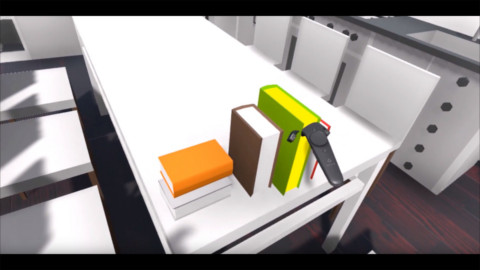
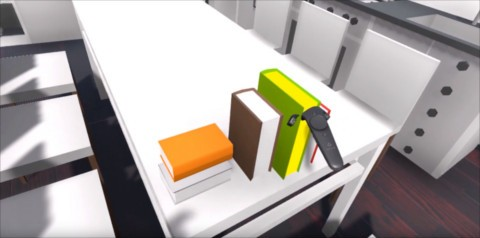
Minor content update
- welcome page update
- remove unused files
- add robots.txt
- add trademarks mention

diff --git a/index.html b/index.html
@@ -27,12 +27,9 @@
 				<section id="banner">
 					<header>
 						<h2>Thomas Caroff</h2>
-						<p>C++ Programmer & Game Dev</p>
-						<p>Welcome to my portfolio!</p>
-						<br>
-						<p>Looking for my next adventure in a great team! :)</p>
-						<br>
-						<!--<p><a class="construction">&emsp;Update sept. 2020: I'm currently reworking my portfolio, everything is not up to date&emsp;</a></p>-->
+						<p>C++ Senior Gameplay AI Programmer</p><br>
+						<p>Welcome to my site. Here I present my past work and<br>
+							projects, and try to draw out a few reflections about it.</p>
 					</header>
 				</section>
 			</div>
@@ -48,41 +45,49 @@
 					<div class="12u">
 						<section>
 							<header class="major">
-								<h2>Work projects</h2>
+								<h2>Announced work projects</h2>
 							</header>
-								<div class="row">
+							<div class="row">
 
 								<div class="4u 12u(mobile)">
 									<section class="box">
-										<a class="image featured"><img src="images/pic02_thumbnail.jpg" alt="" /></a>
+										<a class="image featured"><img src="images/ES_header.jpg" alt="" /></a>
 										<header>
-											<h3>Undisclosed AAA game</h3>
+											<h3>Eternal Strands</h3>
 										</header>
-										<h4 class="my-description">Porting the game on all 8th and 9th gen consoles.</h4>
+										<h4 class="my-description">Shipping a game where you fight against giant creatures with your magic.</h4>
 										<p>
-											<i class="fas fa-code"></i> C++, proprietary engine<br>
-											<i class="fas fa-clock"></i> 1.5 years, 2021-2022<br>
+											<i class="fas fa-code"></i> C++, UE5<br>
+											<i class="fas fa-clock"></i> Shipped 2025<br>
 										</p>
-										<footer>
-											<a class="construction">&emsp;Under construction&emsp;</a>
-										</footer>
 									</section>
 								</div>
 
 								<div class="4u 12u(mobile)">
 									<section class="box">
-										<a class="image featured"><img src="images/pic01_thumbnail.jpg" alt="" /></a>
+										<a class="image featured"><img src="images/CIV_header.jpg" alt="" /></a>
 										<header>
-											<h3>Marvel’s Guardians of the Galaxy - Eidos Montréal</h3>
+											<h3>Civilization VII</h3>
 										</header>
-										<h4 class="my-description">Part of the gameplay team on the biggest title of Eidos to date.</h4>
+										<h4 class="my-description">Porting the game on all 8th and 9th gen consoles.</h4>
+										<p>
+											<i class="fas fa-code"></i> C++, proprietary engine<br>
+											<i class="fas fa-clock"></i> Shipped 2025<br>
+										</p>
+									</section>
+								</div>
+
+								<div class="4u 12u(mobile)">
+									<section class="box">
+										<a class="image featured"><img src="images/MGOG_header.jpg" alt="" /></a>
+										<header>
+											<h3>Marvel’s Guardians of the Galaxy</h3>
+										</header>
+										<h4 class="my-description">Part of the gameplay team on Eidos Montréal's biggest title to date.</h4>
 										<p>
 											<i class="fas fa-code"></i> C++, proprietary data-oriented engine<br>
-											<i class="fas fa-clock"></i> 2 years, 2019-2020<br>
+											<i class="fas fa-clock"></i> Shipped 2021<br>
 										</p>
-										<footer>
-											<a class="construction">&emsp;Under construction&emsp;</a>
-										</footer>
 									</section>
 								</div>
 
@@ -95,8 +100,8 @@
 										<h4 class="my-description">A VR toolset for professional interior designers and architects.</h4>
 										<p>
 											<i class="fas fa-code"></i> <strong>Unity</strong>, C#, HTC Vive, NVIDIA Ansel<br>
-											<i class="fas fa-users"></i> Made alone, total autonomy<br>
-											<i class="fas fa-clock"></i> <strong>12 full-time weeks</strong>, Summer 2017<br> I worked on: all aspects
+											<i class="fas fa-users"></i> Made alone<br>
+											<i class="fas fa-clock"></i> <strong>12 full-time weeks</strong>, Summer 2017
 										</p>
 										<footer>
 											<a href="hvrt.html" class="button alt">Find out more</a>
@@ -139,11 +144,11 @@
 
 								<div class="4u 12u(mobile)">
 									<section class="box">
-										<a href="ugfs.html" class="image featured"><img src="images/ugfs.gif" alt="" /></a>
+										<a class="image featured"><img src="images/ugfs.gif" alt="" /></a>
 										<header>
 											<h3>UE4 gravitation fields system</h3>
 										</header>
-										<h4 class="my-description">Apply gravitation fields to objects and pawns in volumes or upon contacts with objects to walk on walls.</h4>
+										<h4 class="my-description">Apply gravitation fields to objects and pawns in volumes, or upon contacts with objects. Enable any kind of to walk on walls.</h4>
 										<p>
 											<i class="fas fa-code"></i> <strong>UE4</strong>, C++<br>
 											<i class="fas fa-user"></i> Made alone<br>
@@ -161,9 +166,9 @@
 										<header>
 											<h3>Mods and other prototypes</h3>
 										</header>
-										<h4 class="my-description">I'm dusting my old projects! There are some mods on games like Minecraft or Skyrim and some prototypes made on different engines. See more soon.</h4>
+										<h4 class="my-description">I'm dusting my old projects! There are some mods on games like Minecraft or Skyrim, and some prototypes made on different techs. Recently I have been looking at modding Helldivers. See more soon.</h4>
 										<p>
-											<i class="fas fa-code"></i> <strong>UDK / UE4</strong>, C++, Java<br>
+											<i class="fas fa-code"></i> <strong>UDK / UE4 / UE5</strong>, C++, Java<br>
 											<i class="fas fa-user"></i> Made alone<br>
 											<i class="fas fa-clock"></i> Ongoing since 2009<br>
 										</p>
@@ -233,9 +238,9 @@
 									<section class="box">
 										<a class="image featured"><img src="images/pic06_thumbnail.jpg" alt="" /></a>
 										<header>
-											<h3>[Game Jam] Next jams to come</h3>
+											<h3>Old and new jams</h3>
 										</header>
-										<h4 class="my-description">Participation to futur jams.</h4>
+										<h4 class="my-description">Participation to futur jams, and all the previous one I need to make a page about.</h4>
 										<p>
 											Coming soon!
 										</p>
@@ -443,7 +448,7 @@
 				<!-- Copyright -->
 				<div id="copyright">
 					<ul class="links">
-						<li>&copy; Thomas Caroff 2026. All rights reserved.</li>
+						<li>&copy; Thomas Caroff 2026. All rights reserved. All trademarks are the property of their respective owners.</li>
 						<li>Design: <a href="http://html5up.net">HTML5 UP</a></li>
 					</ul>
 				</div>

diff --git a/assets/css/main.css b/assets/css/main.css
@@ -1369,8 +1369,8 @@
 			text-decoration: none;
 			border: 100;
 			border-radius: 5px;
-			background: #ffff00;
-			color: #000 !important;
+			background: #33333333;
+			color: #222 !important;
 			font-weight: 700;
 			outline: 0;
 			-moz-transition: background-color .25s ease-in-out;
@@ -1682,16 +1682,17 @@
 /* Banner */
 
 	#banner {
-		background: #CCE8F4 url("../../images/1920x1200_wallpaper.jpg");
+		background: #CCE8F4 url("../../images/ES_dragon.jpg");
 		background-position: center center;
 		background-size: cover;
 		background-repeat: no-repeat;
-		text-align: center;
+		text-align: left;
 	}
 
 		#banner header {
 			background-color: #252122;
-			background-color: rgba(34, 30, 31, 0.98);
+			background-color: rgba(34, 30, 31, 0.6);
+			backdrop-filter: blur(5px);
 		}
 
 			#banner header h2 {

diff --git a/ugfs.html b/ugfs.html
@@ -63,6 +63,7 @@
 							<h2>Overview</h2>
 						</header>
 						<h4 class="my-description">A system that allows to apply gravitation fields to objects.</h4>
+						<img src="images/ugfs.gif" alt="" />
 						<p>
 							<i class="fas fa-code"></i> <strong>UE4</strong>, C++<br>
 							<i class="fas fa-users"></i> Made alone<br>
@@ -91,7 +92,7 @@
 				<!-- Copyright -->
 				<div id="copyright">
 					<ul class="links">
-						<li>&copy; Thomas Caroff 2026. All rights reserved.</li>
+						<li>&copy; Thomas Caroff 2026. All rights reserved. All trademarks are the property of their respective owners.</li>
 						<li>Design: <a href="http://html5up.net">HTML5 UP</a></li>
 					</ul>
 				</div>

diff --git a/am.html b/am.html
@@ -154,7 +154,7 @@
 				<!-- Copyright -->
 				<div id="copyright">
 					<ul class="links">
-						<li>&copy; Thomas Caroff 2026. All rights reserved.</li>
+						<li>&copy; Thomas Caroff 2026. All rights reserved. All trademarks are the property of their respective owners.</li>
 						<li>Design: <a href="http://html5up.net">HTML5 UP</a></li>
 					</ul>
 				</div>

diff --git a/ccby.html b/ccby.html
@@ -284,7 +284,7 @@
 				<!-- Copyright -->
 				<div id="copyright">
 					<ul class="links">
-						<li>&copy; Thomas Caroff 2026. All rights reserved.</li>
+						<li>&copy; Thomas Caroff 2026. All rights reserved. All trademarks are the property of their respective owners.</li>
 						<li>Design: <a href="http://html5up.net">HTML5 UP</a></li>
 					</ul>
 				</div>

diff --git a/hfh.html b/hfh.html
@@ -316,7 +316,7 @@
 				<!-- Copyright -->
 				<div id="copyright">
 					<ul class="links">
-						<li>&copy; Thomas Caroff 2026. All rights reserved.</li>
+						<li>&copy; Thomas Caroff 2026. All rights reserved. All trademarks are the property of their respective owners.</li>
 						<li>Design: <a href="http://html5up.net">HTML5 UP</a></li>
 					</ul>
 				</div>

diff --git a/hvrt.html b/hvrt.html
@@ -290,7 +290,7 @@
 				<!-- Copyright -->
 				<div id="copyright">
 					<ul class="links">
-						<li>&copy; Thomas Caroff 2026. All rights reserved.</li>
+						<li>&copy; Thomas Caroff 2026. All rights reserved. All trademarks are the property of their respective owners.</li>
 						<li>Design: <a href="http://html5up.net">HTML5 UP</a></li>
 					</ul>
 				</div>

diff --git a/isvr.html b/isvr.html
@@ -143,7 +143,7 @@
 				<!-- Copyright -->
 				<div id="copyright">
 					<ul class="links">
-						<li>&copy; Thomas Caroff 2026. All rights reserved.</li>
+						<li>&copy; Thomas Caroff 2026. All rights reserved. All trademarks are the property of their respective owners.</li>
 						<li>Design: <a href="http://html5up.net">HTML5 UP</a></li>
 					</ul>
 				</div>

diff --git a/mages22.html b/mages22.html
@@ -185,7 +185,7 @@
 				<!-- Copyright -->
 				<div id="copyright">
 					<ul class="links">
-						<li>&copy; Thomas Caroff 2026. All rights reserved.</li>
+						<li>&copy; Thomas Caroff 2026. All rights reserved. All trademarks are the property of their respective owners.</li>
 						<li>Design: <a href="http://html5up.net">HTML5 UP</a></li>
 					</ul>
 				</div>

diff --git a/tqo.html b/tqo.html
@@ -278,7 +278,7 @@
 				<!-- Copyright -->
 				<div id="copyright">
 					<ul class="links">
-						<li>&copy; Thomas Caroff 2026. All rights reserved.</li>
+						<li>&copy; Thomas Caroff 2026. All rights reserved. All trademarks are the property of their respective owners.</li>
 						<li>Design: <a href="http://html5up.net">HTML5 UP</a></li>
 					</ul>
 				</div>
